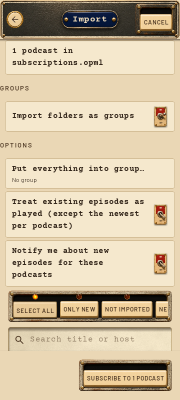
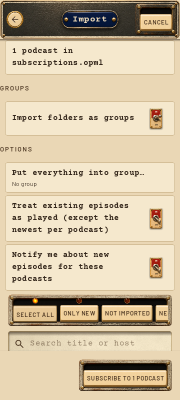
Give RadioSwitch a 48 dp hit target with the same painted plate (#620)
* Give RadioSwitch a 48 dp hit target with the same painted plate

The switch's interactive target was its 30 x 40 dp plate, below the
platform's 48 dp minimum in dense panels (Import, Groups, Backup,
Sync). BatToggle/BatToggleFace now take an optional plateSize: the
modifier stays the 48 x 48 dp hit box and the plate keeps its render's
proportion inside the 30 x 40 dp plate box, centred in the target.

Generated by Mistral Vibe.

* Record the RadioSwitch hit-target goldens

The 48 dp hit target shifts the switch's centred plate in the group
edit, import/export M10 and player speed screens. Re-record the 14
golden PNGs that verify flagged, using the record-screenshots workflow
artifact for refs/pull/620/head (run 45074238979).

Generated by Mistral Vibe.

* Record the dark-theme RadioSwitch goldens too

The multi-capture M10 and player tests verify one theme per assertion,
so the dark variants only surface once the light goldens match. The
radio home screens differ from their record on main as well (record
config drift), so they stay untouched.

Generated by Mistral Vibe.

* Wrap the RadioSwitchTest switch call per spotless

Generated by Mistral Vibe.

* Add the blank line ktlint wants before the selected KDoc

origin/main's RadioState.kt is missing it, so every PR merge ref fails
spotlessKotlinCheck until a branch carries the fix.

Generated by Mistral Vibe.

---------

diff --git a/core/ui/src/desktopTest/kotlin/ch/lkmc/neutrodyne/core/ui/radio/RadioSwitchTest.kt b/core/ui/src/desktopTest/kotlin/ch/lkmc/neutrodyne/core/ui/radio/RadioSwitchTest.kt
@@ -1,0 +1,56 @@
+// SPDX-License-Identifier: Unlicense
+
+package ch.lkmc.neutrodyne.core.ui.radio
+
+import androidx.compose.runtime.getValue
+import androidx.compose.runtime.mutableStateOf
+import androidx.compose.runtime.setValue
+import androidx.compose.ui.Modifier
+import androidx.compose.ui.platform.testTag
+import androidx.compose.ui.semantics.Role
+import androidx.compose.ui.semantics.SemanticsProperties
+import androidx.compose.ui.test.ExperimentalTestApi
+import androidx.compose.ui.test.SemanticsMatcher
+import androidx.compose.ui.test.assertIsOff
+import androidx.compose.ui.test.assertIsOn
+import androidx.compose.ui.test.onNodeWithTag
+import androidx.compose.ui.test.performClick
+import androidx.compose.ui.test.runDesktopComposeUiTest
+import androidx.compose.ui.unit.dp
+import ch.lkmc.neutrodyne.core.designsystem.theme.NeutrodyneTheme
+import ch.lkmc.neutrodyne.core.designsystem.theme.SystemUiState
+import kotlin.test.Test
+import kotlin.test.assertEquals
+import kotlin.test.assertTrue
+
+/** The switch in dense panels keeps the platform's 48 dp touch target without a larger plate. */
+@OptIn(ExperimentalTestApi::class)
+class RadioSwitchTest {
+    @Test
+    fun theInteractiveSwitchReservesA48DpHitTarget() =
+        runDesktopComposeUiTest(width = 320, height = 240) {
+            var checked by mutableStateOf(false)
+            setContent {
+                NeutrodyneTheme(SystemUiState.DEFAULT) {
+                    RadioSwitch(
+                        checked = checked,
+                        onCheckedChange = { checked = it },
+                        modifier = Modifier.testTag("switch"),
+                    )
+                }
+            }
+            val node =
+                onAllNodes(SemanticsMatcher.expectValue(SemanticsProperties.Role, Role.Switch))
+                    .fetchSemanticsNodes()
+                    .single()
+            val minimum = with(node.layoutInfo.density) { 48.dp.toPx() }
+            assertTrue(
+                node.size.width >= minimum && node.size.height >= minimum,
+                "switch hit target is ${node.size}, below the 48 dp minimum",
+            )
+            onNodeWithTag("switch").assertIsOff().performClick()
+            assertTrue(checked)
+            onNodeWithTag("switch").assertIsOn().performClick()
+            assertEquals(false, checked)
+        }
+}

diff --git a/core/designsystem/src/commonMain/kotlin/ch/lkmc/neutrodyne/core/designsystem/radio/BatToggle.kt b/core/designsystem/src/commonMain/kotlin/ch/lkmc/neutrodyne/core/designsystem/radio/BatToggle.kt
@@ -35,6 +35,7 @@ import androidx.compose.ui.semantics.Role
 import androidx.compose.ui.semantics.clearAndSetSemantics
 import androidx.compose.ui.unit.Dp
 import androidx.compose.ui.unit.DpOffset
+import androidx.compose.ui.unit.DpSize
 import androidx.compose.ui.unit.dp
 import androidx.compose.ui.unit.sp
 import ch.lkmc.neutrodyne.core.designsystem.resources.Res
@@ -62,6 +63,7 @@ public fun BatToggle(
     modifier: Modifier = Modifier,
     enabled: Boolean = true,
     plate: SwitchPlate = SwitchPlate.BRASS,
+    plateSize: DpSize? = null,
 ) {
     // Read through states: the flick detector below outlives recompositions.
     val currentOn by rememberUpdatedState(on)
@@ -91,6 +93,7 @@ public fun BatToggle(
             },
         enabled,
         plate,
+        plateSize,
     )
 }
 
@@ -101,6 +104,10 @@ public fun BatToggle(
  * lever down; the app prints [onLabel] and [offLabel] on its blank enamel so they follow the
  * user's language. The printed labels stay silent: the switch's state, not its plate, is what a
  * screen reader announces.
+ *
+ * [plateSize] separates the painted plate's box from the hit area: the caller sizes [modifier]
+ * (the touch target, 48 dp or more) and the plate keeps its render's proportion inside
+ * [plateSize], centred in the target.
  */
 @Composable
 public fun BatToggleFace(
@@ -110,11 +117,18 @@ public fun BatToggleFace(
     modifier: Modifier = Modifier,
     enabled: Boolean = true,
     plate: SwitchPlate = SwitchPlate.BRASS,
+    plateSize: DpSize? = null,
 ) {
     val reducedMotion = LocalReducedMotion.current
     BoxWithConstraints(modifier.alpha(if (enabled) 1f else DISABLED_ALPHA), contentAlignment = Alignment.Center) {
-        // The plate keeps the render's proportion inside whatever box the caller gives it.
-        val plateHeight = minOf(maxHeight, maxWidth * plate.aspect)
+        // The plate keeps the render's proportion inside its own box: [plateSize] when the caller
+        // reserved a larger hit area, else the whole box.
+        val plateHeight =
+            if (plateSize != null) {
+                minOf(plateSize.height, plateSize.width * plate.aspect)
+            } else {
+                minOf(maxHeight, maxWidth * plate.aspect)
+            }
         val plateWidth = plateHeight / plate.aspect
         Box(
             Modifier

diff --git a/core/ui/src/commonMain/kotlin/ch/lkmc/neutrodyne/core/ui/radio/RadioSwitch.kt b/core/ui/src/commonMain/kotlin/ch/lkmc/neutrodyne/core/ui/radio/RadioSwitch.kt
@@ -5,6 +5,7 @@ package ch.lkmc.neutrodyne.core.ui.radio
 import androidx.compose.foundation.layout.size
 import androidx.compose.runtime.Composable
 import androidx.compose.ui.Modifier
+import androidx.compose.ui.unit.DpSize
 import androidx.compose.ui.unit.dp
 import ch.lkmc.neutrodyne.core.designsystem.radio.BatToggle
 import ch.lkmc.neutrodyne.core.designsystem.radio.BatToggleFace
@@ -16,7 +17,8 @@ import org.jetbrains.compose.resources.stringResource
 /**
  * The radio's bat-handle switch in place of Material's `Switch`, with the same contract: with
  * [onCheckedChange] it is a switch of its own (announced as one; the caller names it), and with
- * null it is the picture of [checked] inside a row that is the switch.
+ * null it is the picture of [checked] inside a row that is the switch. The interactive target is
+ * 48 × 48 dp; the painted plate stays 30 × 40 dp, centred inside it.
  */
 @Composable
 public fun RadioSwitch(
@@ -27,13 +29,17 @@ public fun RadioSwitch(
 ) {
     val on = stringResource(Res.string.radio_switch_on)
     val off = stringResource(Res.string.radio_switch_off)
-    val sized = modifier.size(SWITCH_WIDTH, SWITCH_HEIGHT)
+    // The painted plate keeps its size, centred in a 48 dp hit target: a smaller target is
+    // below the platform minimum in dense panels, and a larger plate would not fit the rows.
+    val hit = modifier.size(SWITCH_HIT_TARGET, SWITCH_HIT_TARGET)
+    val plate = DpSize(SWITCH_WIDTH, SWITCH_HEIGHT)
     if (onCheckedChange == null) {
-        BatToggleFace(checked, on, off, sized, enabled)
+        BatToggleFace(checked, on, off, hit, enabled, plateSize = plate)
     } else {
-        BatToggle(checked, { onCheckedChange(!checked) }, on, off, sized, enabled)
+        BatToggle(checked, { onCheckedChange(!checked) }, on, off, hit, enabled, plateSize = plate)
     }
 }
 
 private val SWITCH_WIDTH = 30.dp
 private val SWITCH_HEIGHT = 40.dp
+private val SWITCH_HIT_TARGET = 48.dp
